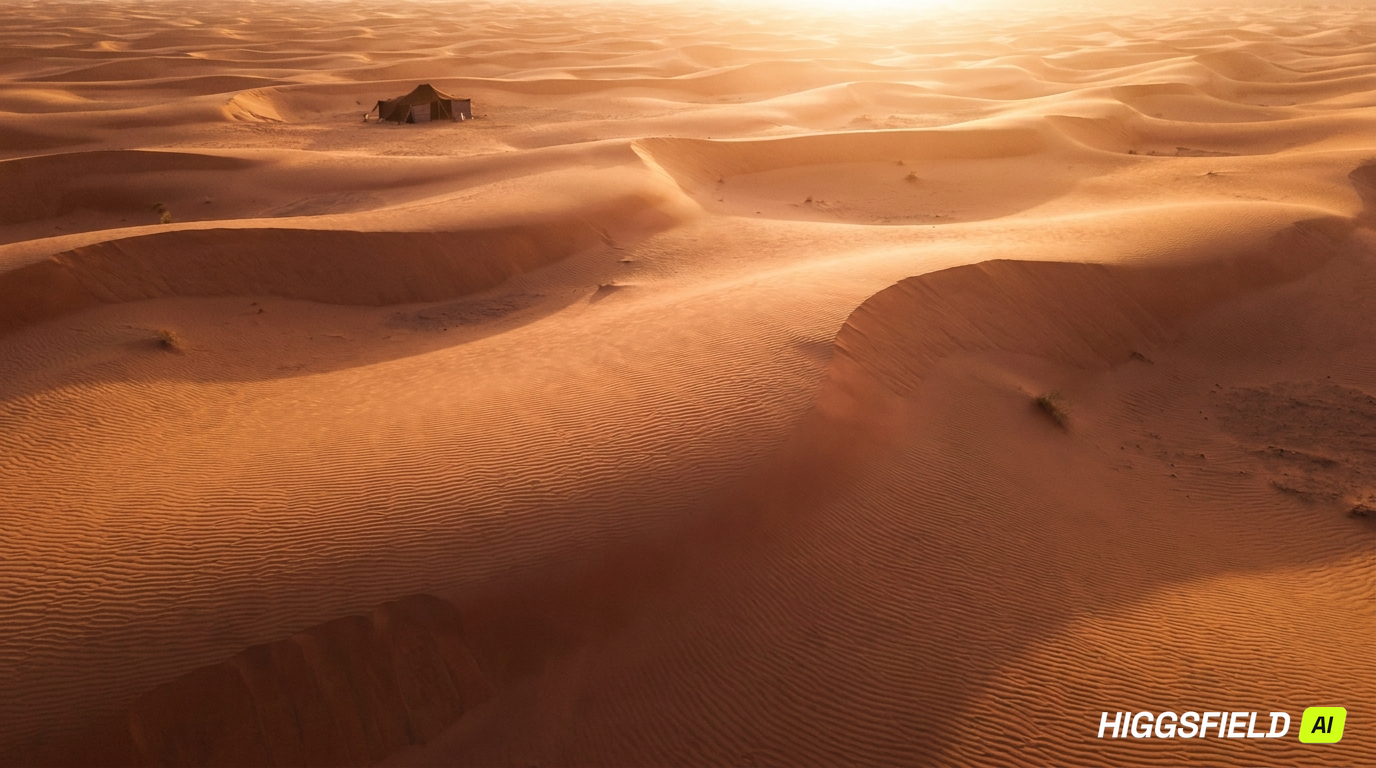
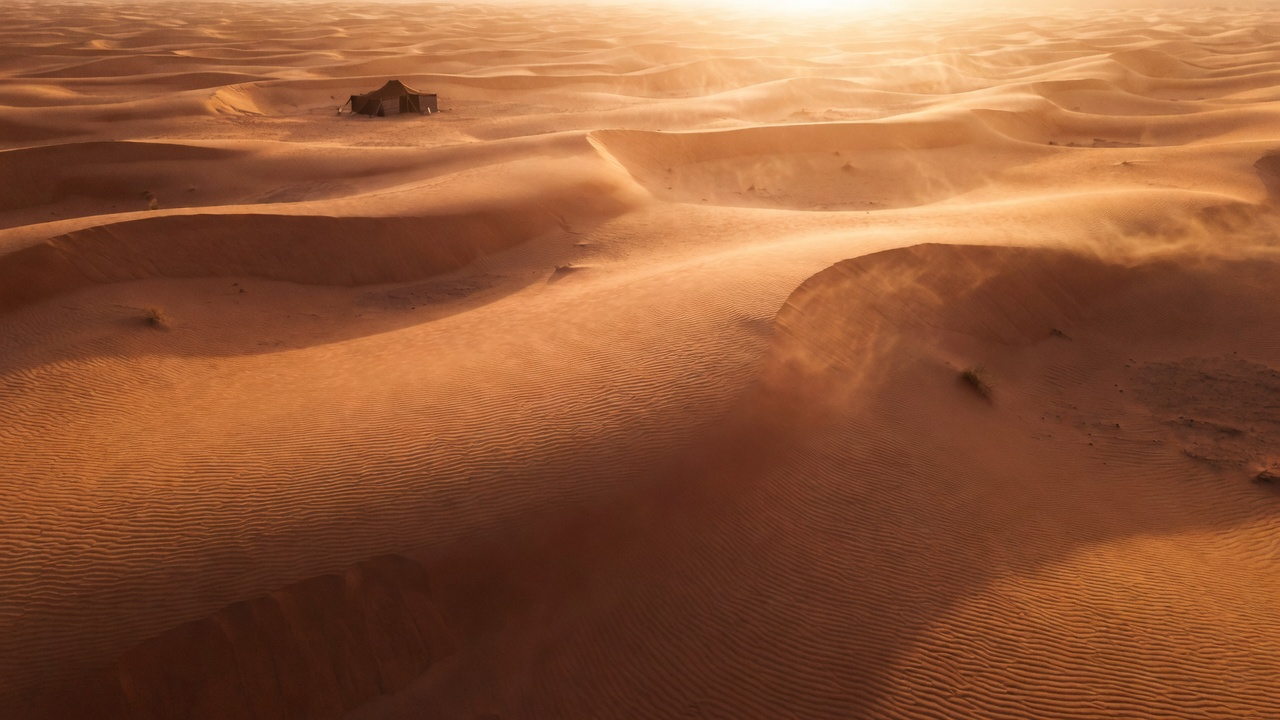
chore: commit hero video, updated layout domain, and cleanup
- Add sahara_hero_horizontal.mp4 to public/videos
- layout.tsx: update metadataBase to loctravels.com
- Remove images/.gitkeep (real assets now present)
- Gitignore tsconfig.tsbuildinfo build artifact

diff --git a/frontend/app/layout.tsx b/frontend/app/layout.tsx
@@ -36,12 +36,12 @@ export const metadata: Metadata = {
     "travel guide Morocco",
     "LOC Morocco",
   ],
-  authors: [{ name: "LOC", url: "https://loc.ma" }],
+  authors: [{ name: "LOC", url: "https://loctravels.com" }],
   creator: "LOC",
   openGraph: {
     type: "website",
     locale: "en_US",
-    url: "https://loc.ma",
+    url: "https://loctravels.com",
     siteName: "LOC Morocco",
     title: "LOC — Discover Morocco | Experiences, Stays & Hidden Gems",
     description:
@@ -75,7 +75,7 @@ export const metadata: Metadata = {
     },
   },
   alternates: {
-    canonical: "https://loc.ma",
+    canonical: "https://loctravels.com",
   },
 }
 
@@ -83,7 +83,7 @@ const organizationSchema = {
   "@context": "https://schema.org",
   "@type": "TravelAgency",
   name: "LOC Morocco",
-  url: "https://loc.ma",
+  url: "https://loctravels.com",
   description:
     "Morocco's premier tourism connector — curated experiences, handpicked stays, and digital travel products.",
   areaServed: { "@type": "Country", name: "Morocco" },